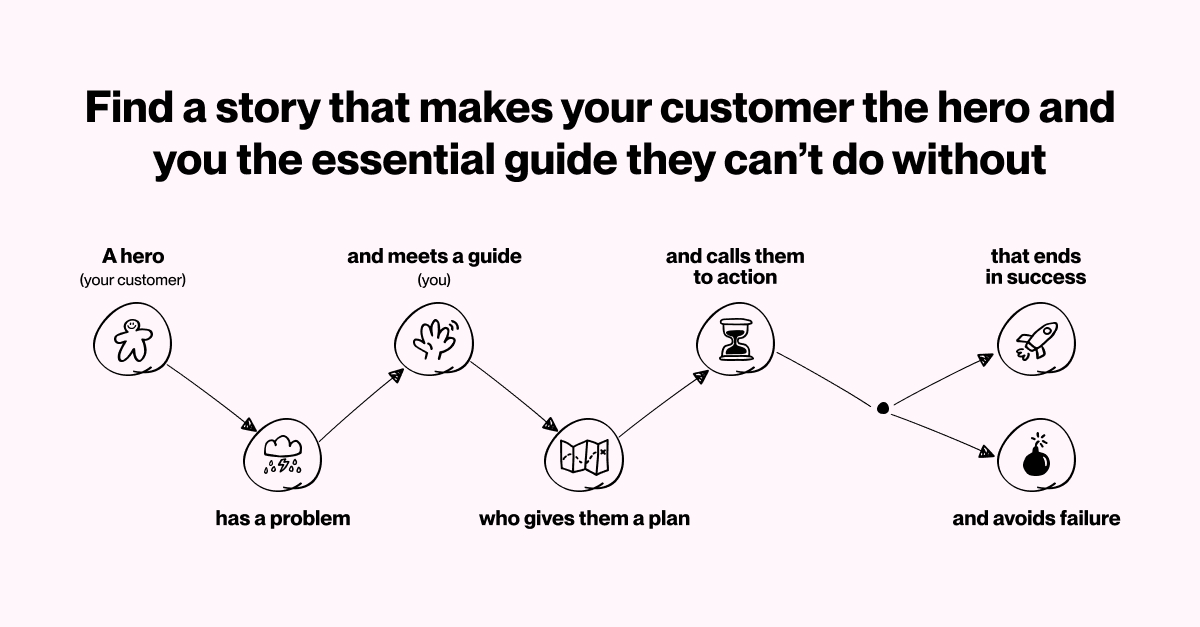
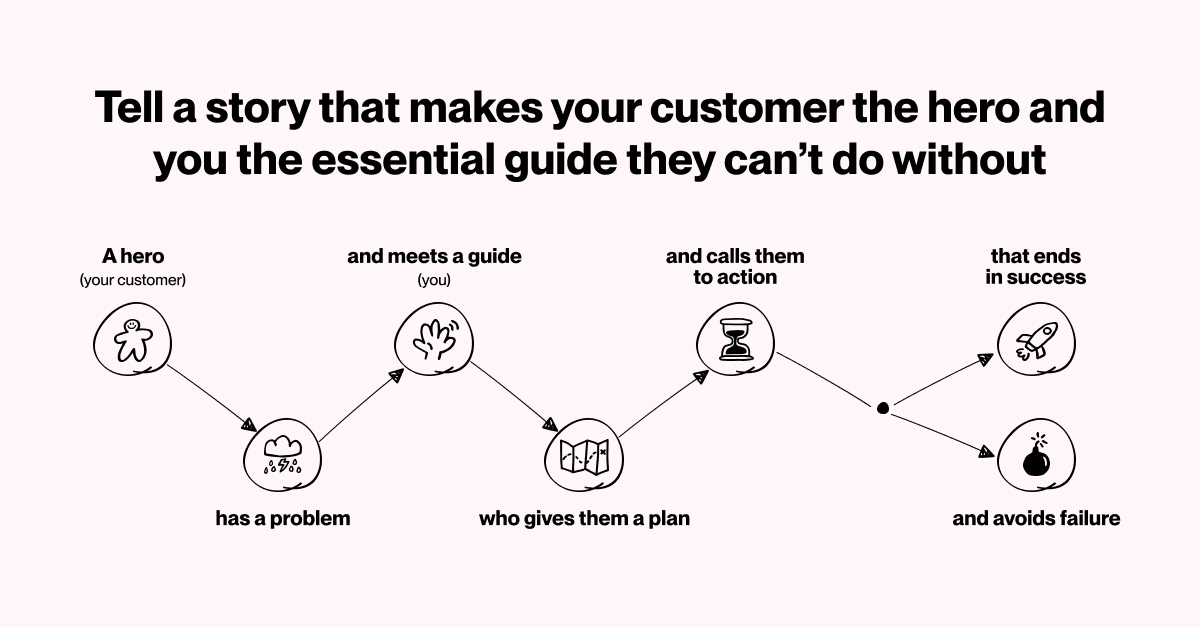
Brand script edits

Changed region(s): [[0.0617, 0.1212, 0.9558, 0.2121]]

diff --git a/brand-script.html b/brand-script.html
@@ -2,19 +2,19 @@
 <html>
 <head>
 <meta charset="UTF-8">
-<title>Brand Script | Tell a story your customers can't forget</title>
+<title>Brand Script | Become the essential guide in your customer's story</title>
 <link rel="stylesheet" type="text/css" href="css/style.css">
 
 <meta name="viewport" content="width=device-width, initial-scale=1">
 <meta name="viewport" content="width=device-width, initial-scale=1.0, maximum-scale=1, minimum-scale=1">
-<meta name="description" content="At Eastward Bound we help you tell a story get to a story that makes the customer the hero and positions you as an essential guide on their journey - improving conversions, sales and brand footprint."/>
+<meta name="description" content="At Eastward Bound we help you tell a story around your brand that makes your customer the hero and you as an essential guide on their journey - improving conversions, sales and brand footprint."/>
 <meta name="keywords" content="Marketing, Marketing Strategy, Brand Script, Workshops, Brand Story" />
 <meta name="author" content="Max Quinn" />
-<meta property="og:title" content="Eastward Bound | Your Design & Product Arm" />
+<meta property="og:title" content="Brand Script | Become the essential guide in your customer's story" />
 <meta property='og:image' content="https://eastwardbound.co/images/BrandScript_ShareImage.jpg"/>
 <meta property="og:type" content="website" />
 <meta property="og:url" content="https://eastwardbound.co" />
-<meta property="og:description" content="At Eastward Bound we help you tell a story around your brand that makes your customer the hero and positions you as an essential guide on their journey - improving conversions, sales and brand footprint.
+<meta property="og:description" content="At Eastward Bound we help you tell a story around your brand that makes your customer the hero and you as an essential guide on their journey - improving conversions, sales and brand footprint." />
 
 <link rel="apple-touch-icon" sizes="57x57" href="images/favicon/apple-icon-57x57.png">
 <link rel="apple-touch-icon" sizes="60x60" href="images/favicon/apple-icon-60x60.png">
